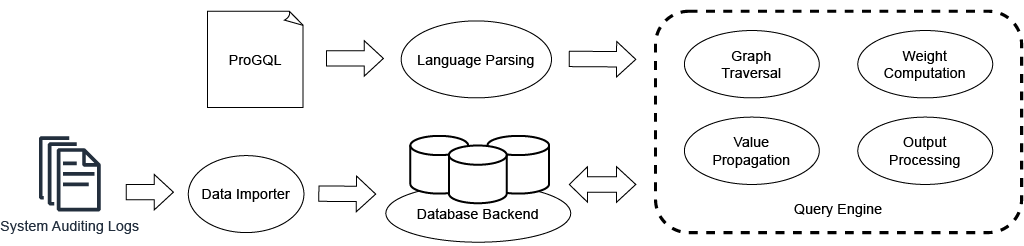
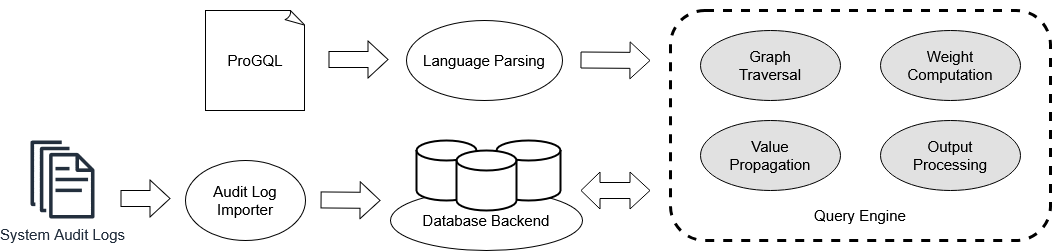
update figure.

diff --git a/README.md b/README.md
@@ -7,7 +7,7 @@ Moreover, most of these techniques load all the event data into memory and thus 
 To address these fundamental limitations, we propose the ProGQL framework, which provides (1) a novel domain-specific graph search language to let security experts customize PA and manipulate the output graph, and (2) a novel query engine that optimizes the execution of a ProGQL query over a colossal amount of system audit events. 
 In particular, our ProGQL framework employs a database backend that can be built using different types of databases and performs incremental graph search to minimize memory consumption. 
 
-![Framework](figs/ProGQL Architecture.drawio.png)
+![Framework](figs/ProGQL.png)
 
 Our ProGQL framework consists of 3 major modules, as shown above.
 1. The data importer module takes system auditing logs as input, and performs batch insertion into the database backend. 
